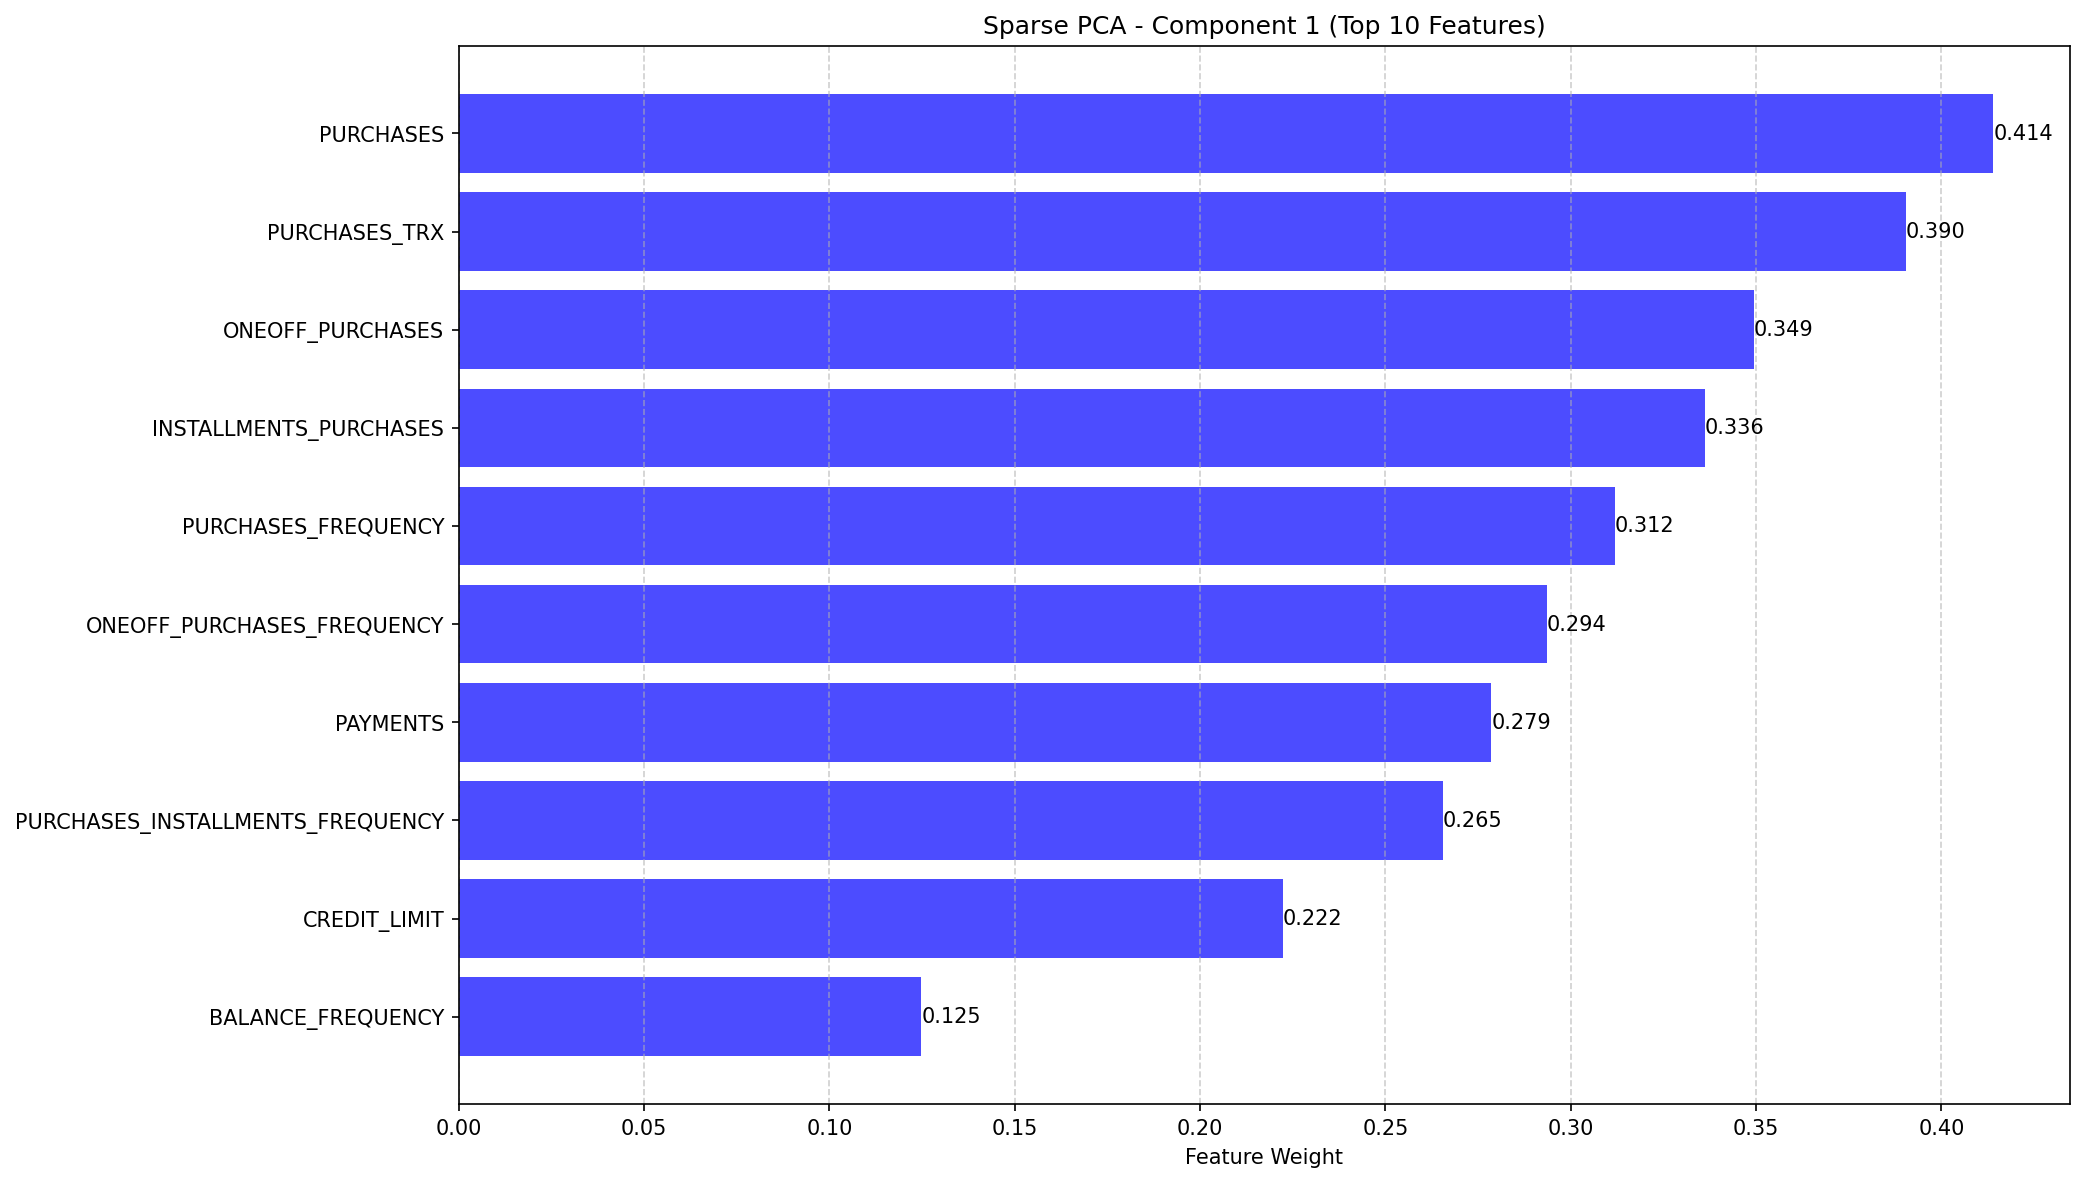
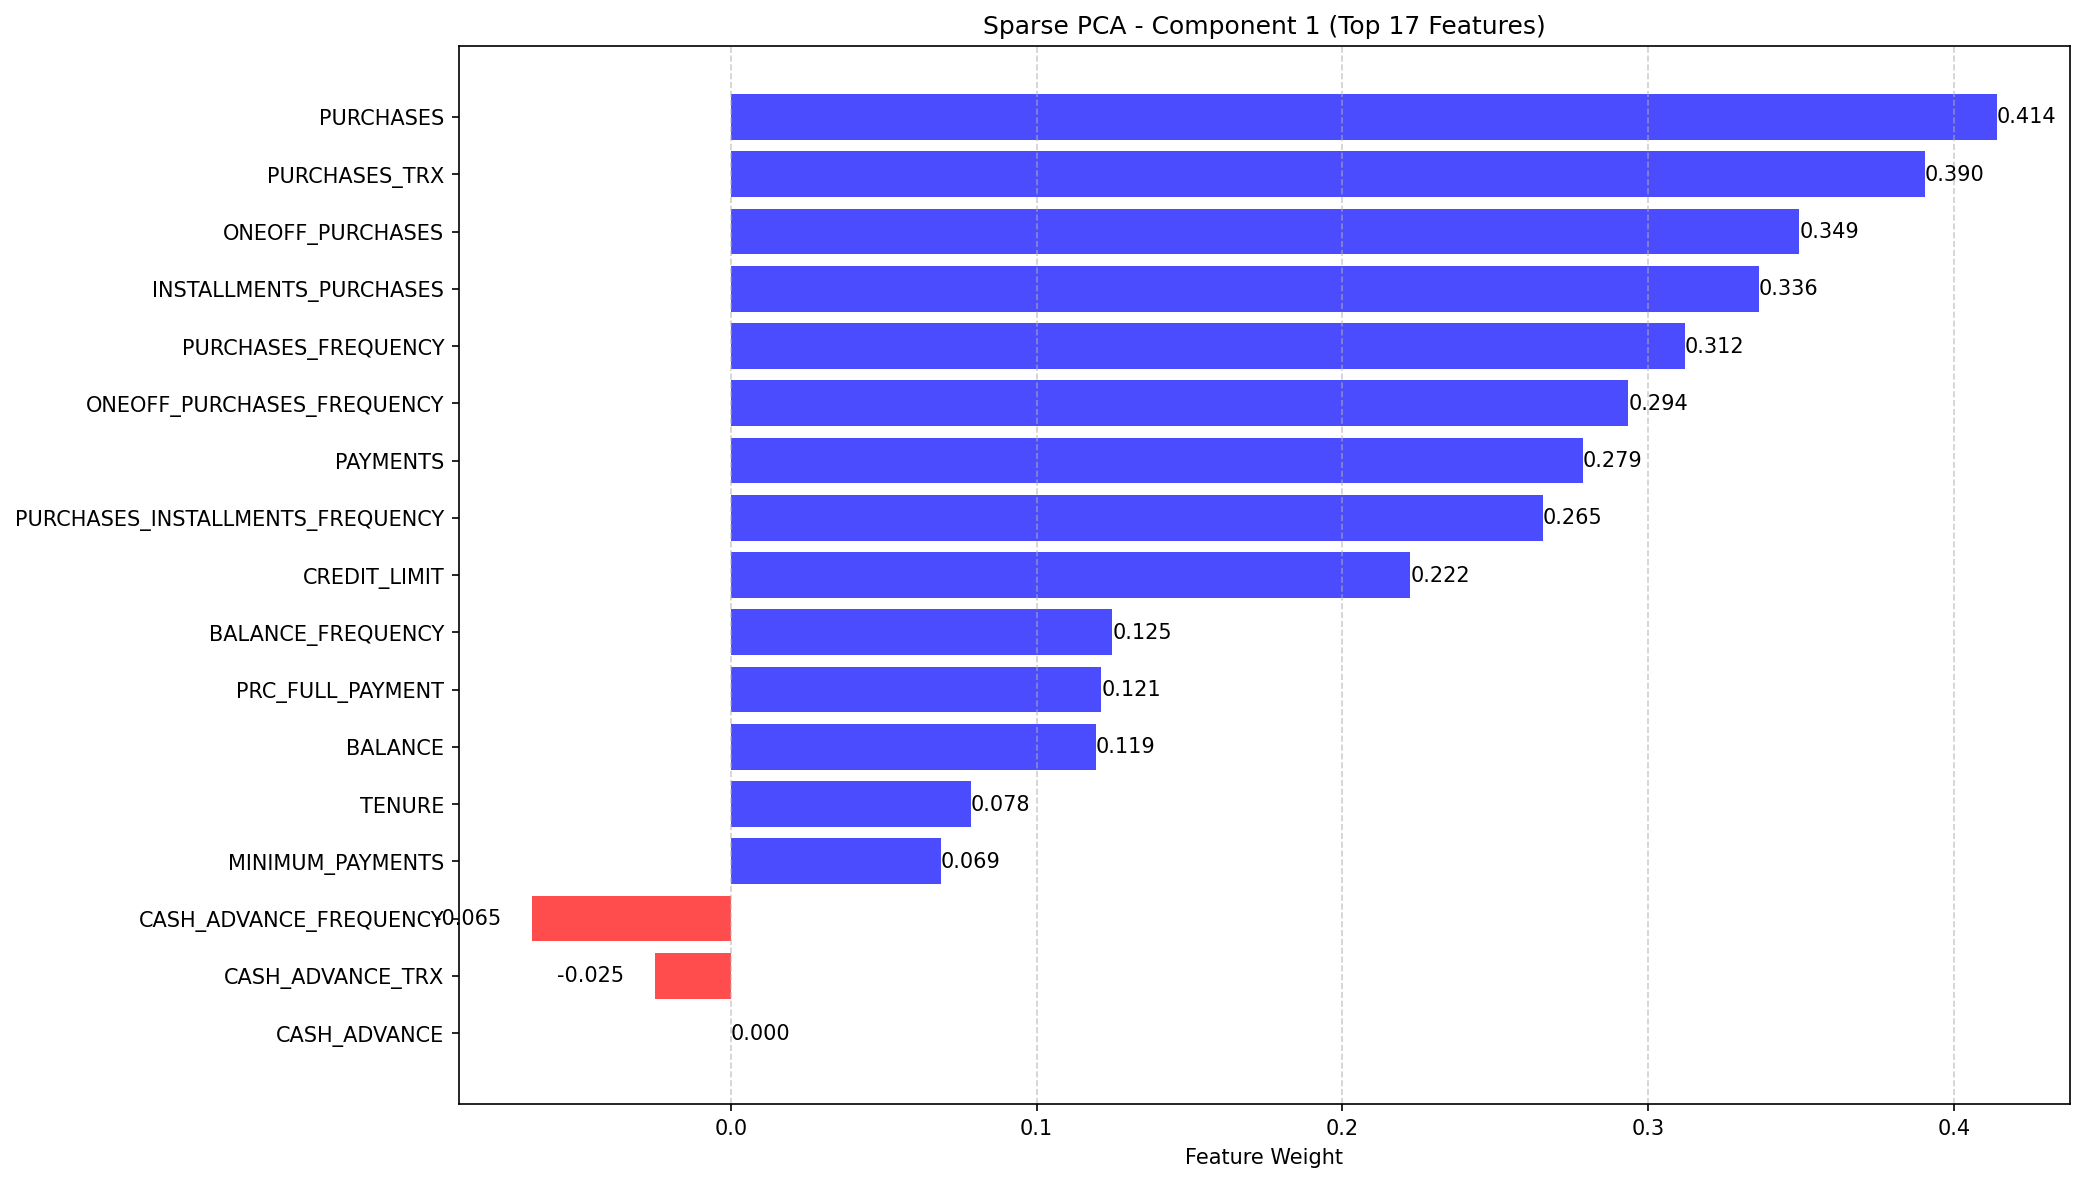
Article

diff --git a/pca_analysis.py b/pca_analysis.py
@@ -103,7 +103,7 @@ def plot_pca_results(pca_result, title, filename):
     plt.close()
     logger.info(f"Saved {title} plot to {save_path}")
 
-def plot_feature_importance(pca, feature_names, title, filename, n_features=10):
+def plot_feature_importance(pca, feature_names, title, filename, n_features=17):
     """Plot feature importance for PCA components with top N features"""
     n_components = pca.components_.shape[0]
     

diff --git a/README.md b/README.md
@@ -2,6 +2,9 @@
 
 This project provides a comprehensive comparison between Principal Component Analysis (PCA) and Sparse PCA using credit card customer data. The analysis includes data preprocessing, dimensionality reduction, visualization, and interpretation of results.
 
+## Article 
+https://medium.com/@ritu.bansalrb00/pca-vs-sparse-pca-a-practical-guide-to-interpretable-dimensionality-reduction-775760461ad0
+
 ## Key Features
 
 - **Data Preprocessing**: Automatic handling of missing values and standardization
